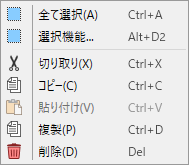
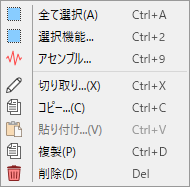
v0.7.15

diff --git a/docs/history.html b/docs/history.html
@@ -11,6 +11,36 @@
             <ul>
                 <li>
                     <details open>
+                        <summary class="a-like">Version 0.7.15 (2025/07/18)</summary>
+                        <ul>
+                            <li>
+                                仕様変更
+                                <ul>
+                                    <li>
+                                        <a href="bms.html">BMSモード</a>において、メインエリアを右クリックした際のメニューに「選択範囲>アセンブル」を追加しました。
+                                    </li>
+                                    <li>
+                                        <a href="bms_info.html">BMSモード/情報</a>において、「要求分解能」の計算の上限値を増やしました。
+                                    </li>
+                                </ul>
+                            </li>
+                            <li>
+                                不具合修正
+                                <ul>
+                                    <li>
+                                        <a href="terminal.html">ターミナル</a>において、<span class="script">.b</span>ファイルのドラッグ&ドロップに反応しない不具合を修正しました。
+                                    </li>
+                                    <li>
+                                        <a href="bms.html">BMSモード</a>の、ノートをクリックした際の波形プレビューにおいて、テンポ指定が極端に小さい場合(例:<span class="script">0.0001</span>など)に不正な位置に線が描画される不具合を修正しました。
+                                    </li>
+                                </ul>
+                            </li>
+                        </ul>
+                        <br>
+                    </details>
+                </li>
+                <li>
+                    <details open>
                         <summary class="a-like">Version 0.7.14 (2025/07/07)</summary>
                         <ul>
                             <li>

diff --git a/docs/bms.html b/docs/bms.html
@@ -297,6 +297,9 @@
                                                 <img src="img/icons/Selection.png" class="icon16"><b>選択機能</b>: <a href="bms_selection.html">選択機能ウィンドウ</a>を開きます。
                                             </li>
                                             <li>
+                                                <img src="img/icons/Wave.png" class="icon16"><b>アセンブル</b>: <a href="bms_assemble.html">アセンブルウィンドウ</a>を開きます。
+                                            </li>
+                                            <li>
                                                 <img src="img/icons/Cut.png" class="icon16"><b>切り取り</b>: 選択中のノートをクリップボードにコピーし、譜面から削除します。
                                             </li>
                                             <li>

diff --git a/docs/index.html b/docs/index.html
@@ -11,7 +11,7 @@
             <div class="stack">
                 <a href="https://github.com/Kuroki-Narumi/BmsMaker3-Manual/releases" target="_blank">
                     <img src="img/logo.png" style="max-width: 100%;"/><br>
-                    Version 0.7.14<br>
+                    Version 0.7.15<br>
                 </a>
                 オールインワン型BMS制作補助ツール<br>
             </div>
